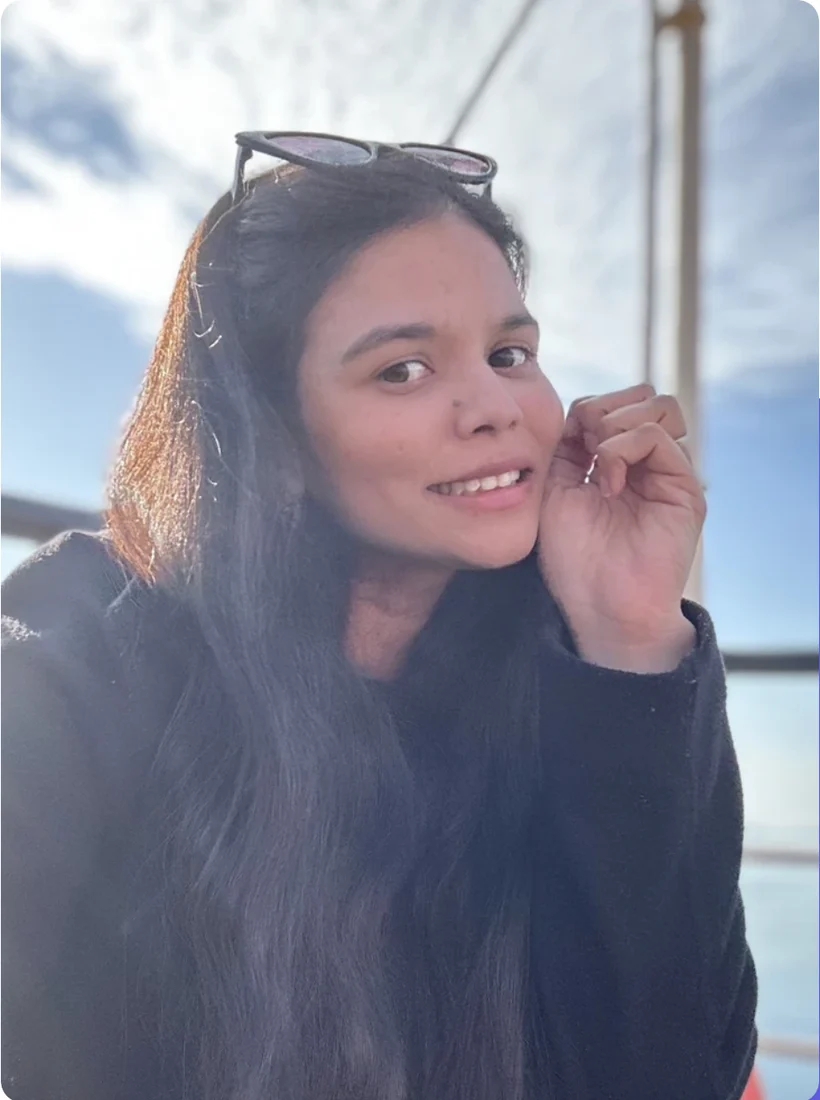
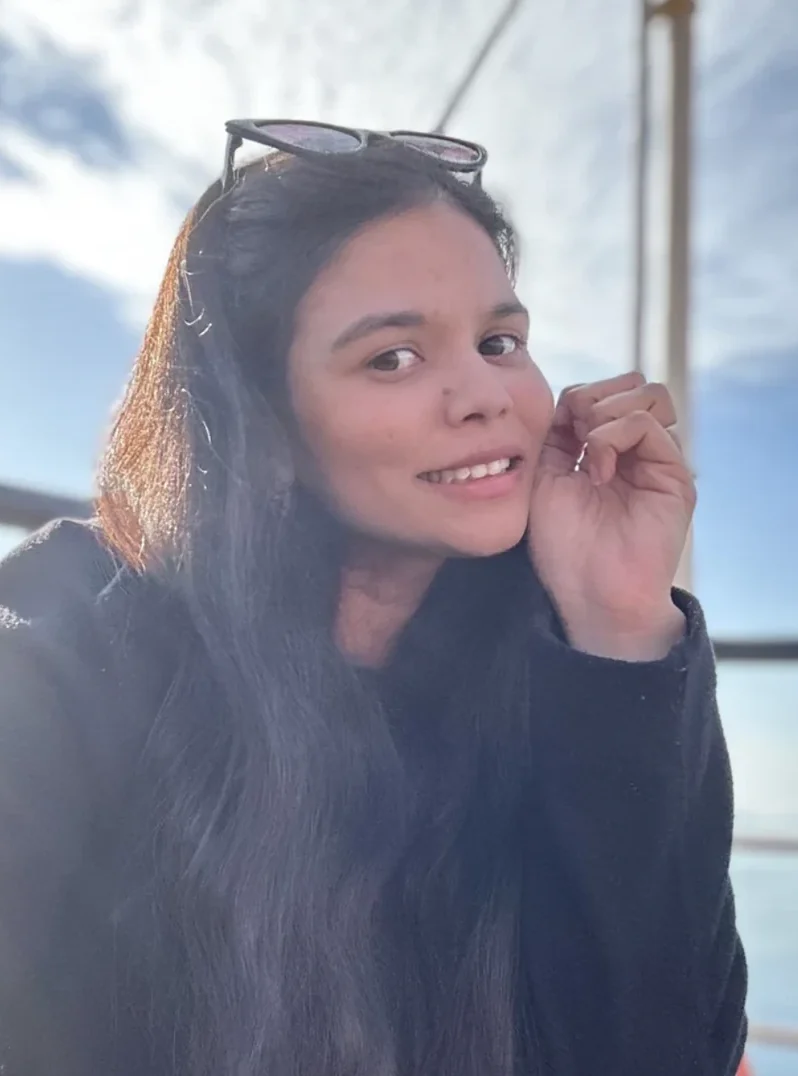
About: the photo is now the large picture and the drawing the small one
The photo sits in a white print frame; the crossword drawing is pinned
at its corner. Photo edges trimmed of a stray border.

Claude-Session: https://claude.ai/code/session_019Huz889oddA9awia9bw4Ah

diff --git a/about.html b/about.html
@@ -80,13 +80,14 @@
   .hero { display: grid; grid-template-columns: 440px minmax(0, 1fr); gap: 0 72px; align-items: center; padding: 56px 0 24px; }
   .shot { position: relative; }
   .shot .frame {
-    position: relative;
-    background: var(--pink);
-    padding: 26px 22px;
+    position: relative; display: block;
+    background: #fff;
+    padding: 12px 12px 14px;
     transform: rotate(-1.6deg);
-    box-shadow: 0 22px 50px rgba(52,48,58,.13);
+    border: 1px solid #ece8ee;
+    box-shadow: 0 2px 6px rgba(52,48,58,.08), 0 22px 50px rgba(52,48,58,.16);
   }
-  .shot img { width: 100%; height: auto; aspect-ratio: 4 / 4.4; object-fit: cover; object-position: 50% 12%; display: block; }
+  .shot img { width: 100%; height: auto; aspect-ratio: 4 / 4.6; object-fit: cover; object-position: 50% 30%; display: block; }
   .shot .tape {
     position: absolute; z-index: 2;
     width: 104px; height: 28px;
@@ -97,11 +98,11 @@
   .shot .tape.b { right: -20px; bottom: 34px; transform: rotate(-28deg); }
   .shot .me {
     position: absolute; right: -34px; bottom: -30px; z-index: 3;
-    width: 172px; background: #fff; padding: 8px;
+    width: 150px; background: #fff; padding: 7px;
     box-shadow: 0 16px 34px rgba(52,48,58,.18);
     transform: rotate(3.5deg);
   }
-  .shot .me img { width: 100%; height: auto; aspect-ratio: 1; object-fit: cover; object-position: 50% 22%; display: block; }
+  .shot .me img { width: 100%; height: auto; aspect-ratio: 820 / 1090; object-fit: cover; display: block; }
   .shot figcaption {
     font-family: var(--hand); font-size: 17.5px; color: var(--mid);
     margin: 20px 0 0 14px; transform: rotate(-1.5deg);
@@ -211,7 +212,7 @@
     .beliefs { grid-template-columns: 1fr; }
     .wall { grid-template-columns: repeat(3, 1fr); }
     .talks { grid-template-columns: 1fr; }
-    .shot .me { width: 140px; right: -16px; }
+    .shot .me { width: 124px; right: -16px; }
     .stops { grid-template-columns: repeat(3, 1fr); gap: 34px 20px; }
     .route svg.line { display: none; }
   }
@@ -219,7 +220,7 @@
     .wrap { width: calc(100% - 32px); }
     section { padding-block: 60px; }
     .wall { grid-template-columns: repeat(2, 1fr); }
-    .shot .me { width: 104px; right: 4px; bottom: -14px; }
+    .shot .me { width: 96px; right: 4px; bottom: -14px; }
     .shot .tape.a { left: -6px; }
     .shot .tape.b { right: -6px; }
     .pin.tall { grid-column: span 2; }
@@ -452,8 +453,8 @@
     <figure class="shot">
       <span class="tape a" aria-hidden="true"></span>
       <span class="tape b" aria-hidden="true"></span>
-      <span class="frame"><img src="img/ill-cw.webp" alt="Line drawing of Ashita at a desk, filling in a crossword" width="820" height="1090"></span>
-      <span class="me"><img src="img/ashita.webp" alt="Ashita Jain" width="820" height="1100"></span>
+      <span class="frame"><img src="img/ashita.webp" alt="Ashita Jain" width="798" height="1076"></span>
+      <span class="me"><img src="img/ill-cw.webp" alt="Line drawing of Ashita at a desk, filling in a crossword" width="820" height="1090"></span>
       <figcaption>Most evenings, roughly.</figcaption>
     </figure>
     <div>
